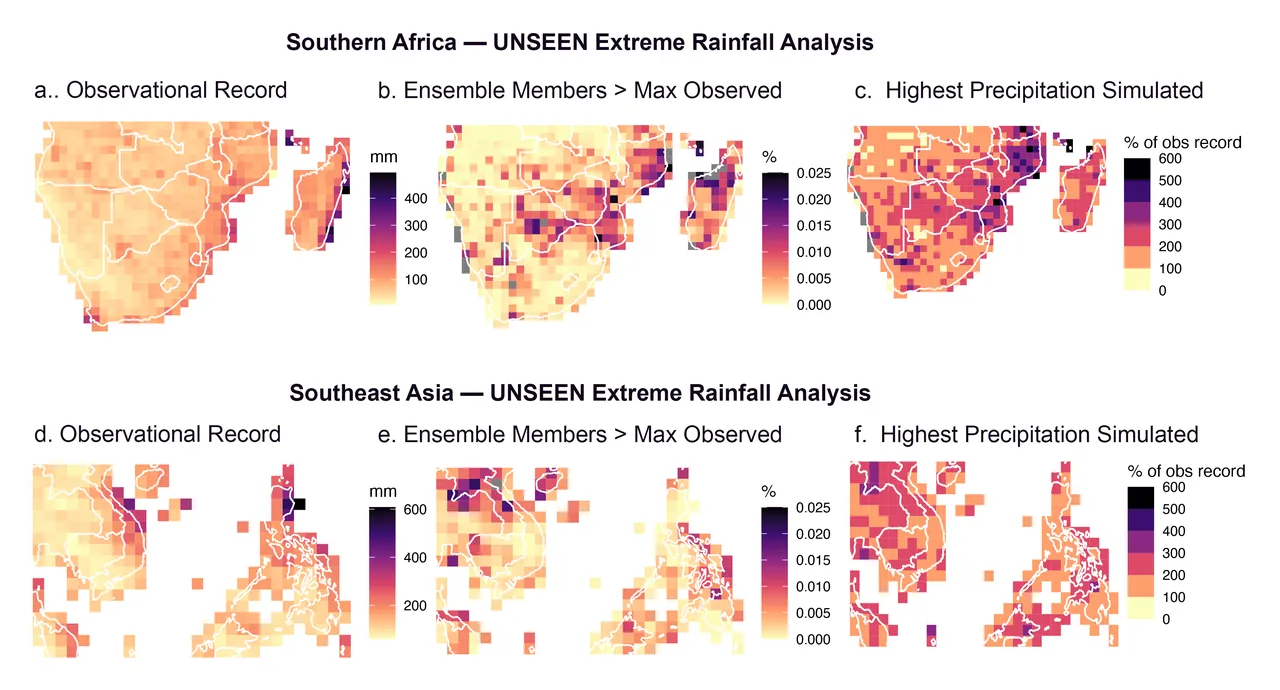
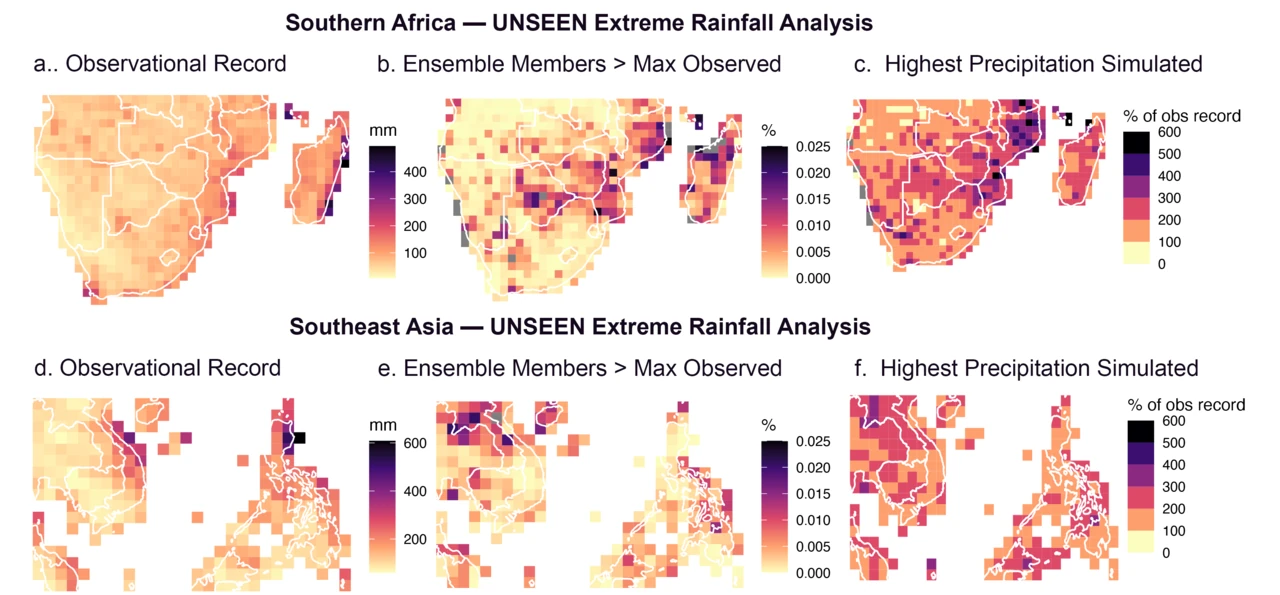
content(prepare): update UNSEEN rainfall figure
Replace the Data Visualization image on the Prepare landing page with the
updated cropped figure, converted to WebP at 1280x595.

Changed region(s): [[0.0, 0.0, 0.9688, 0.9983]]

diff --git a/app/site-config/theme/theme__prepare.ts b/app/site-config/theme/theme__prepare.ts
@@ -31,7 +31,7 @@ export const PREPARE_CONTENT: ThemeContent = {
       src: "/img/theme/prepare-unseen-rainfall.webp",
       alt: "Six paneled maps of Southern Africa and Southeast Asia comparing observed extreme one-day rainfall with UNSEEN simulated rainfall, showing where simulations exceed the observational record.",
       width: 1280,
-      height: 690,
+      height: 595,
       caption:
         "These maps compare extreme rainfall observed from 1981–2024 with modeled rainfall generated using the UNprecedented Simulated Extreme ENsemble (UNSEEN) approach for Southern Africa (top) and Southeast Asia (bottom). The left panels (a & d) show the highest observed one-day rainfall; the middle panels (b and e) show how often UNSEEN simulations exceeded that historical maximum; and the right panels (c and f) show how much larger the most extreme simulated rainfall was compared with the observed record. In several areas, the simulations produce record-breaking rainfall — and in some locations, amounts several times greater than anything in the observational record. These gaps reveal places where history may provide an incomplete picture of present-day risk, helping scientists and disaster managers develop realistic scenarios to stress-test plans and prepare for extreme events communities have not yet experienced. Credit: NASA Disasters Program; Erin Coughlan de Perez.",
     },
